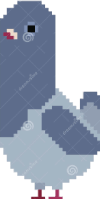
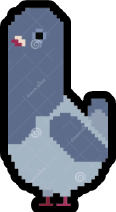
optimize obstacles

diff --git a/Capros/game/game.css b/Capros/game/game.css
@@ -83,10 +83,10 @@ body {
   background-image: url('imgs/alien-jump.png');
   background-position: 0 0;
   background-size: 100%;
-  filter: drop-shadow(1px 0 0 black) 
-        drop-shadow(0 1px 0 black)
-        drop-shadow(-1px 0 0 black) 
-        drop-shadow(0 -1px 0 black);
+  filter: drop-shadow(10% 0 0 black) 
+        drop-shadow(0 10% 0 black)
+        drop-shadow(-10% 0 0 black) 
+        drop-shadow(0 -10% 0 black);
 }
 
 
@@ -104,11 +104,6 @@ body {
   height: 32%;
   bottom: 0;
   margin-bottom: 1.3%;
-  filter: drop-shadow(1px 0 0 black) 
-        drop-shadow(0 1px 0 black)
-        drop-shadow(-1px 0 0 black) 
-        drop-shadow(0 -1px 0 black);
-  
 }
 
 .sagrada {
@@ -117,10 +112,6 @@ body {
   height: 35%;
   bottom: 0;
   margin-bottom: 1.3%;
-  filter: drop-shadow(2px 0 0 black) 
-        drop-shadow(0 2px 0 black)
-        drop-shadow(-2px 0 0 black) 
-        drop-shadow(0 -2px 0 black);
 }
 
 .plumber {
@@ -129,10 +120,6 @@ body {
   height: 20%;
   bottom: 0;
   margin-bottom: 0;
-  filter: drop-shadow(2px 0 0 black) 
-        drop-shadow(0 2px 0 black)
-        drop-shadow(-2px 0 0 black) 
-        drop-shadow(0 -2px 0 black);
 }
 
 .skater {
@@ -149,10 +136,6 @@ body {
   height: 18%;
   bottom: 0;
   margin-bottom: 1.3%;
-  filter: drop-shadow(3px 0 0 black) 
-        drop-shadow(0 3px 0 black)
-        drop-shadow(-3px 0 0 black) 
-        drop-shadow(0 -3px 0 black);
 }
 
 .mobile-text {

diff --git a/Capros/game/game.html b/Capros/game/game.html
@@ -16,6 +16,18 @@
   <script src="gameScript.js" type="module"></script>
 </head>
 <body>
+  <svg style="height: 0; width: 0; position: absolute;">
+    <filter id="responsive-stroke">
+      <feMorphology in="SourceAlpha" operator="dilate" radius="2%" result="expanded"/>
+      <feFlood flood-color="black" flood-opacity="1" result="color"/>
+      <feComposite in="color" in2="expanded" operator="in" result="stroke"/>
+      <feMerge>
+        <feMergeNode in="stroke"/>
+        <feMergeNode in="SourceGraphic"/>
+      </feMerge>
+    </filter>
+  </svg>
+
   <div class="main">
     <div class="world" data-world>
       <div class="score" data-score>1000</div>
